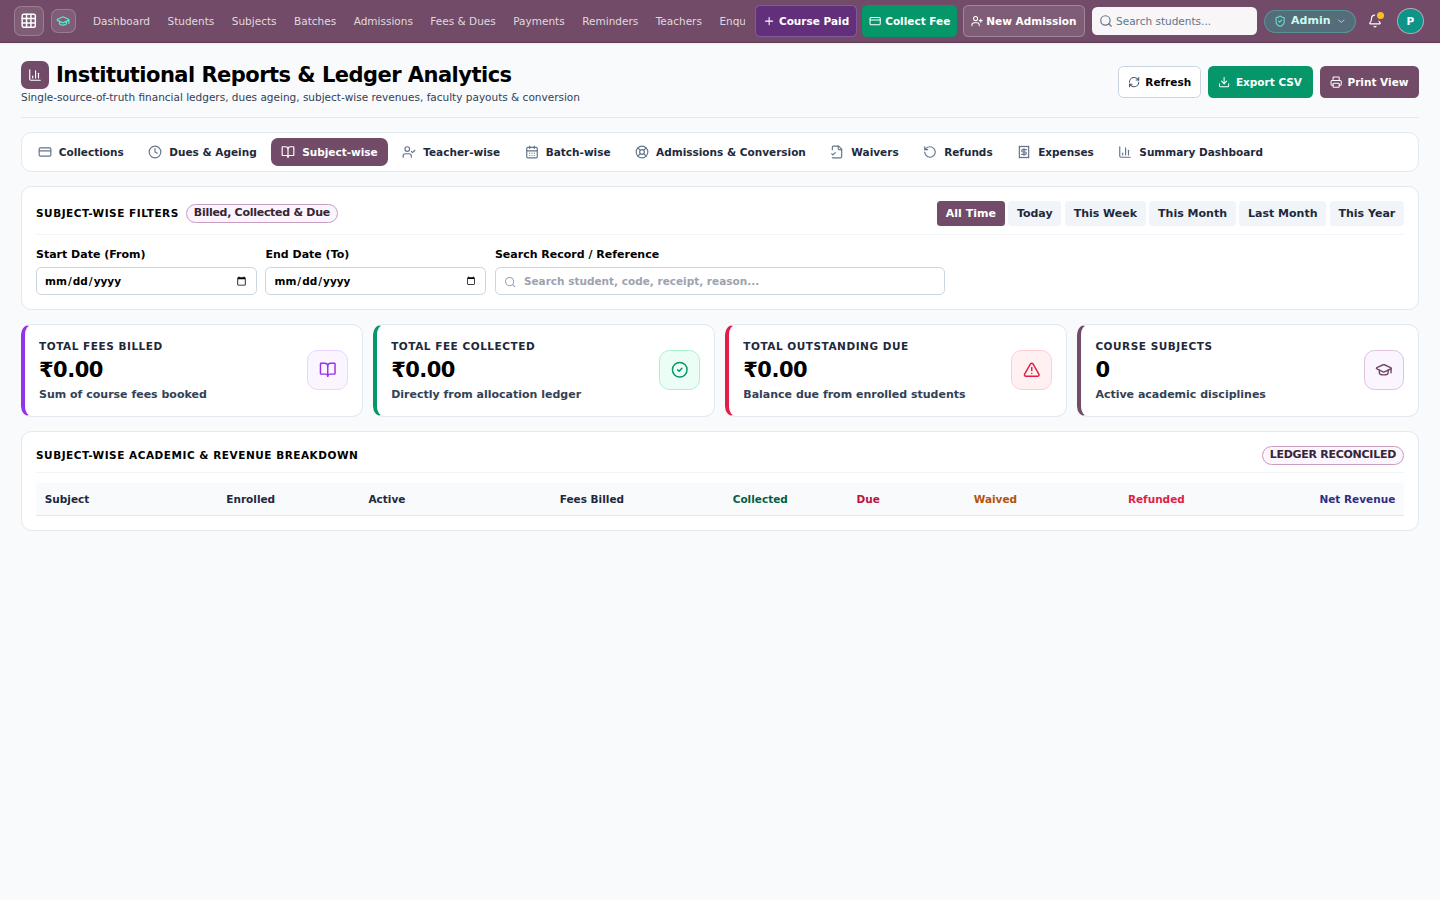
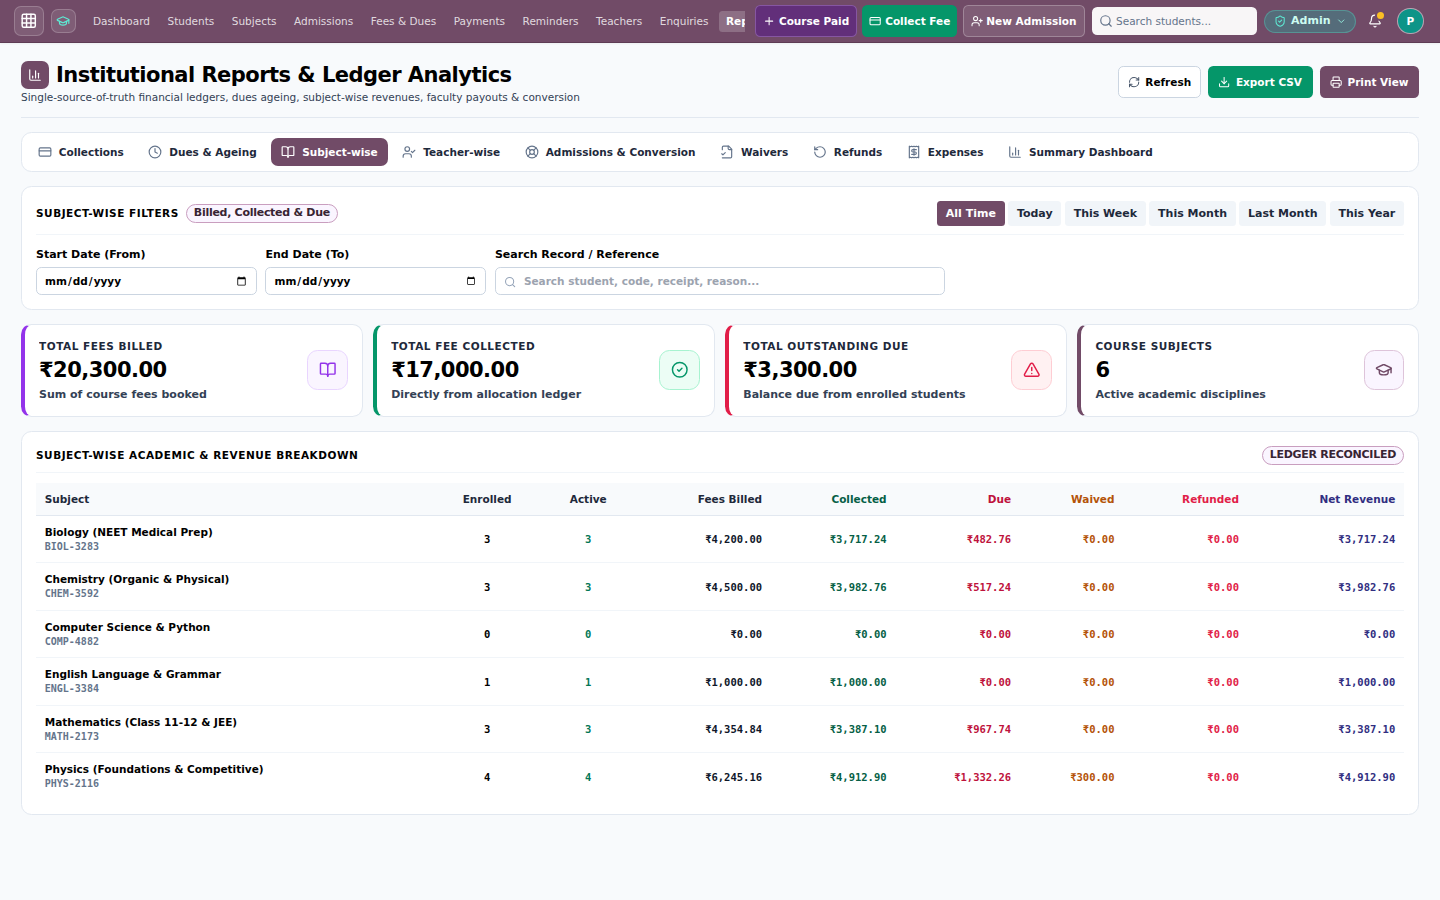
fix(seed): report before/after wipe counts, reset sequences, align latest admission query and verify e2e reports

diff --git a/scripts/verify_live_e2e_seeded.js b/scripts/verify_live_e2e_seeded.js
@@ -112,8 +112,20 @@ async function runLiveVerification() {
     }
     await page.screenshot({ path: path.join(SCREENSHOT_DIR, 'e2e_03_subject_detail.png'), fullPage: true });
 
-    // 5. Verify Dues & Reminders Page (/reminders)
-    console.log('\n[5/6] Verifying Dues & Reminders Page (/reminders)...');
+    // 5. Verify Reports Hub (/reports/collections)
+    console.log('\n[5/7] Verifying Reports Page (/reports/collections)...');
+    await page.goto(`${FRONTEND_URL}/reports/collections`);
+    await page.waitForSelector('h1:has-text("Institutional Reports & Ledger Analytics")', { timeout: 15000 });
+    await page.waitForTimeout(1000);
+    const reportsText = await page.innerText('body');
+    if (!reportsText.includes('17,000') && !reportsText.includes('17000')) {
+      throw new Error('FAIL: ₹17,000 collected not found in Collections report');
+    }
+    console.log('  ✓ Reports Collections shows ₹17,000 collected across 10 seeded payments!');
+    await page.screenshot({ path: path.join(SCREENSHOT_DIR, 'e2e_04_reports_collections.png'), fullPage: true });
+
+    // 6. Verify Dues & Reminders Page (/reminders)
+    console.log('\n[6/7] Verifying Dues & Reminders Page (/reminders)...');
     await page.goto(`${FRONTEND_URL}/reminders`);
     await page.waitForSelector('h1:has-text("Fee Reminders")', { timeout: 15000 });
     await page.waitForTimeout(1000);
@@ -124,10 +136,10 @@ async function runLiveVerification() {
     if (!remText.includes('Utkarsh Shukla')) throw new Error('FAIL: Utkarsh Shukla not found in Dues & Reminders');
     if (!remText.includes('1,000') && !remText.includes('1000')) throw new Error('FAIL: ₹1,000 due amount not found in Reminders');
     console.log('  ✓ Dues & Reminders lists all 3 partially-paid students with real ₹1,000 dues!');
-    await page.screenshot({ path: path.join(SCREENSHOT_DIR, 'e2e_04_reminders.png'), fullPage: true });
+    await page.screenshot({ path: path.join(SCREENSHOT_DIR, 'e2e_05_reminders.png'), fullPage: true });
 
-    // 6. Verify Public ID Card (No login required)
-    console.log('\n[6/6] Verifying Public Student ID Card for ADM-2026-0001...');
+    // 7. Verify Public ID Card (No login required)
+    console.log('\n[7/7] Verifying Public Student ID Card for ADM-2026-0001...');
     const publicContext = await browser.newContext({
       viewport: { width: 1440, height: 900 },
     });
@@ -141,7 +153,7 @@ async function runLiveVerification() {
     if (!cardText.includes('ADM-2026-0001')) throw new Error('FAIL: ADM-2026-0001 missing from ID card');
     if (!cardText.includes('Mathematics')) throw new Error('FAIL: Mathematics missing from active courses on ID card');
     console.log('  ✓ Public ID card verified for Aarav Gupta (ADM-2026-0001) with active Mathematics subject!');
-    await publicPage.screenshot({ path: path.join(SCREENSHOT_DIR, 'e2e_05_public_id_card.png'), fullPage: true });
+    await publicPage.screenshot({ path: path.join(SCREENSHOT_DIR, 'e2e_06_public_id_card.png'), fullPage: true });
     await publicContext.close();
 
     console.log('\n===============================================================');

diff --git a/scripts/seed_demo_data.py b/scripts/seed_demo_data.py
@@ -97,25 +97,57 @@ def take_backup(timestamp: str = None) -> tuple[str, str]:
     return sql_path, dump_path
 
 
-def check_business_row_count() -> int:
-    """Check total row count across all business tables."""
-    count_sql = "SELECT " + " + ".join([f"(SELECT COUNT(*) FROM {t})" for t in BUSINESS_TABLES]) + ";"
-    cmd = f"PGPASSWORD={DB_PASS} psql -h {DB_HOST} -U {DB_USER} -d {DB_NAME} -t -c \"{count_sql}\""
+def get_table_counts(tables: list[str]) -> dict[str, int]:
+    """Get exact row counts for each specified table."""
+    select_parts = [f"SELECT '{t}' as tbl, count(*) as cnt FROM {t}" for t in tables]
+    sql = f"SELECT json_object_agg(tbl, cnt) FROM ({' UNION ALL '.join(select_parts)}) s;"
+    cmd = f"PGPASSWORD={DB_PASS} psql -h {DB_HOST} -U {DB_USER} -d {DB_NAME} -t -c \"{sql}\""
     res = subprocess.run(cmd, shell=True, capture_output=True, text=True, check=True)
-    return int(res.stdout.strip() or "0")
+    raw = res.stdout.strip()
+    return json.loads(raw) if raw else {t: 0 for t in tables}
 
 
-def wipe_business_tables():
-    """Wipe all business tables while strictly keeping users and alembic_version."""
-    print("[Wipe] Truncating all business tables (keeping users and alembic_version)...")
-    truncate_sql = f"TRUNCATE TABLE {', '.join(BUSINESS_TABLES)} CASCADE;"
+def wipe_business_tables() -> tuple[dict[str, int], dict[str, int]]:
+    """
+    Wipe all business tables while strictly keeping users and alembic_version.
+    Resets primary-key sequences and reports counts before and after.
+    """
+    all_monitored_tables = BUSINESS_TABLES + ["users"]
+    counts_before = get_table_counts(all_monitored_tables)
+
+    print("\n[Wipe] Truncating all business tables and resetting sequences...")
+    print("  -> Preserving 'users' (admin/cashier accounts) and 'alembic_version' intact.")
+
+    truncate_sql = f"TRUNCATE TABLE {', '.join(BUSINESS_TABLES)} RESTART IDENTITY CASCADE;"
     cmd = f"PGPASSWORD={DB_PASS} psql -h {DB_HOST} -U {DB_USER} -d {DB_NAME} -c \"{truncate_sql}\""
     subprocess.run(cmd, shell=True, check=True)
 
-    remaining = check_business_row_count()
-    if remaining != 0:
-        raise RuntimeError(f"Wipe verification failed! {remaining} rows remain in business tables.")
-    print("  ✓ All business tables wiped to 0 rows. Users table preserved intact.")
+    counts_after = get_table_counts(all_monitored_tables)
+
+    # Report counts before and after (after: 0 in every wiped table)
+    print("\n" + "=" * 65)
+    print(f"{'BUSINESS TABLE':<28} | {'BEFORE':>10} | {'AFTER (WIPED)':>15} | {'STATUS':<8}")
+    print("-" * 65)
+    for tbl in sorted(BUSINESS_TABLES):
+        b_cnt = counts_before.get(tbl, 0)
+        a_cnt = counts_after.get(tbl, 0)
+        status = "0 (OK)" if a_cnt == 0 else "FAIL"
+        print(f"{tbl:<28} | {b_cnt:>10} | {a_cnt:>15} | {status:<8}")
+        if a_cnt != 0:
+            raise RuntimeError(f"Table '{tbl}' was not wiped completely! {a_cnt} rows remaining.")
+
+    # Users preserved check
+    u_before = counts_before.get("users", 0)
+    u_after = counts_after.get("users", 0)
+    print("-" * 65)
+    print(f"{'users (PRESERVED)':<28} | {u_before:>10} | {u_after:>15} | PRESERVED")
+    print("=" * 65)
+    if u_after == 0 or u_after != u_before:
+        raise RuntimeError(f"Users table was affected during wipe! Before: {u_before}, After: {u_after}")
+
+    print(f"  ✓ Verified: 0 rows in every wiped table (all {len(BUSINESS_TABLES)} business tables).")
+    print(f"  ✓ Verified: {u_after} user accounts preserved intact in users table.\n")
+    return counts_before, counts_after
 
 
 def login(session: requests.Session) -> str:
@@ -701,65 +733,77 @@ def verify_seeded_system(session: requests.Session):
     )
     assert math_rep["enrolled_count"] >= 3, "Mathematics should have at least 3 enrolled students"
 
-    # 4. Check Dues & Reminders Queue
+    # 4. Check Institutional Reports (Collections, Waivers, Subject Revenue)
+    coll_res = session.get(f"{API_URL}/reports/collections", timeout=10)
+    assert coll_res.status_code == 200, "Failed to fetch collections report"
+    coll_data = coll_res.json()
+    assert coll_data["summary"]["gross_collected"] == 17000.0, f"Collections gross mismatch: {coll_data['summary']['gross_collected']}"
+    assert coll_data["summary"]["payment_count"] == 10, f"Collections payment count mismatch: {coll_data['summary']['payment_count']}"
+
+    waiver_res = session.get(f"{API_URL}/reports/waivers", timeout=10)
+    assert waiver_res.status_code == 200, "Failed to fetch waivers report"
+    waiver_data = waiver_res.json()
+    assert waiver_data["summary"]["total_waived_amount"] == 300.0, f"Waiver amount mismatch: {waiver_data['summary']['total_waived_amount']}"
+    assert waiver_data["summary"]["waivers_count"] == 1, f"Waiver count mismatch: {waiver_data['summary']['waivers_count']}"
+    print(
+        f"  4. Institutional Reports: Gross Collections=₹{coll_data['summary']['gross_collected']}, "
+        f"Payments=10, Fee Waivers=₹{waiver_data['summary']['total_waived_amount']} (1 record)"
+    )
+
+    # 5. Check Dues & Reminders Queue
     rem_res = session.get(f"{API_URL}/reminders/queue?status=pending", timeout=10)
     assert rem_res.status_code == 200, "Failed to fetch reminder queue"
     rem_data = rem_res.json()
     pending_count = rem_data.get("total", len(rem_data.get("items", [])))
-    print(f"  4. Dues & Reminders Queue: Found {pending_count} pending reminder(s) (Expected: 3)")
+    print(f"  5. Dues & Reminders Queue: Found {pending_count} pending reminder(s) (Expected: 3)")
     assert pending_count == 3, f"Expected exactly 3 pending reminders, found {pending_count}"
     for item in rem_data.get("items", []):
         mob = item.get("student_mobile") or item.get("mobile", "")
         print(f"     * {item['student_name']}: Due ₹{item['due_amount']} | Mobile: {mob}")
 
-    # 5. Check Public ID Card by Admission Number (no authentication required)
+    # 6. Check Public ID Card by Admission Number (no authentication required)
     public_session = requests.Session()
     id_card_res = public_session.get(f"{BASE_URL}/api/public/id-card/ADM-2026-0001", timeout=10)
     assert id_card_res.status_code == 200, f"Public ID card check failed: {id_card_res.status_code} {id_card_res.text}"
     id_card = id_card_res.json()
     print(
-        f"  5. Public ID Card for ADM-2026-0001: Student '{id_card['student']['name']}', "
+        f"  6. Public ID Card for ADM-2026-0001: Student '{id_card['student']['name']}', "
         f"Enrolled Courses: {len(id_card['active_courses'])} active course(s)"
     )
     assert id_card["student"]["name"] == "Aarav Gupta", f"ID card student mismatch: {id_card['student']['name']}"
     assert len(id_card["active_courses"]) > 0, "Public ID card must list active course"
 
-    print("\n✓ ALL 5 LIVE VERIFICATION CHECKS PASSED WITH FLYING COLORS!")
+    print("\n✓ ALL 6 LIVE VERIFICATION CHECKS PASSED WITH FLYING COLORS!")
 
 
 def main():
     print("=" * 60)
-    print("THAKURDWARA ERP - DATABASE SEED RUNNER")
+    print("THAKURDWARA ERP - DATABASE BACKUP, WIPE & SEED RUNNER")
     print("=" * 60)
 
-    # 1. Check if business data exists. If it does, back up and re-wipe to ensure a clean state
-    row_count = check_business_row_count()
-    if row_count > 0 or "--rewipe" in sys.argv:
-        print(f"[Notice] Found {row_count} existing rows in business tables. Performing safety backup and wipe...")
-        take_backup()
-        wipe_business_tables()
-    else:
-        print("[Notice] Business tables are already clean (0 rows). Proceeding directly to seed...")
+    # Step 1: Backup
+    print("\n--- STEP 1: BACKUP DATABASE ---")
+    take_backup()
 
-    # 2. Initialize requests session
+    # Step 2: Wipe
+    print("\n--- STEP 2: WIPE BUSINESS TABLES ---")
+    wipe_business_tables()
+
+    # Step 3: Seed
+    print("\n--- STEP 3: SEED DEMO DATA ---")
     session = requests.Session()
-
-    # 3. Authenticate
     login(session)
-
-    # 4. Seed Teachers
     teachers = seed_teachers(session)
-
-    # 5. Seed Subjects
     subjects = seed_subjects(session, teachers)
-
-    # 6. Seed Students, Admissions, and Payments
     seed_students_and_admissions(session, subjects)
 
-    # 7. Verify Seeded State
+    # Step 4: Verify
+    print("\n--- STEP 4: VERIFY SEEDED SYSTEM ---")
     verify_seeded_system(session)
 
-    print("\nSUCCESS: Production database wiped, seeded with 10 realistic entries, and verified!")
+    print("\n" + "=" * 60)
+    print("DEMO RUN COMPLETE: PRODUCTION DATABASE FORMATTED, SEEDED & VERIFIED!")
+    print("=" * 60)
 
 
 if __name__ == "__main__":

diff --git a/backend/app/modules/students/router.py b/backend/app/modules/students/router.py
@@ -191,15 +191,33 @@ async def list_students(
     student_ids = [s.id for s in items]
     adm_map = {}
     if student_ids:
-        adm_stmt = (
+        # Prioritize active, non-void admissions (consistent with get_student)
+        adm_stmt_active = (
             select(Admission.student_id, Admission.admission_number)
-            .where(Admission.student_id.in_(student_ids))
-            .order_by(Admission.created_at.desc())
+            .where(
+                Admission.student_id.in_(student_ids),
+                Admission.status == "ACTIVE",
+                Admission.document_status != "VOID"
+            )
+            .order_by(Admission.admission_date.desc(), Admission.created_at.desc())
         )
-        adm_res = await db.execute(adm_stmt)
-        for s_id, adm_no in adm_res.all():
+        adm_res_active = await db.execute(adm_stmt_active)
+        for s_id, adm_no in adm_res_active.all():
             if s_id not in adm_map:
                 adm_map[s_id] = adm_no
+
+        # For students without an active valid admission, fallback to latest admission
+        remaining_ids = [s_id for s_id in student_ids if s_id not in adm_map]
+        if remaining_ids:
+            adm_stmt_fallback = (
+                select(Admission.student_id, Admission.admission_number)
+                .where(Admission.student_id.in_(remaining_ids))
+                .order_by(Admission.admission_date.desc(), Admission.created_at.desc())
+            )
+            adm_res_fallback = await db.execute(adm_stmt_fallback)
+            for s_id, adm_no in adm_res_fallback.all():
+                if s_id not in adm_map:
+                    adm_map[s_id] = adm_no
 
     response_items = []
     for s in items:
